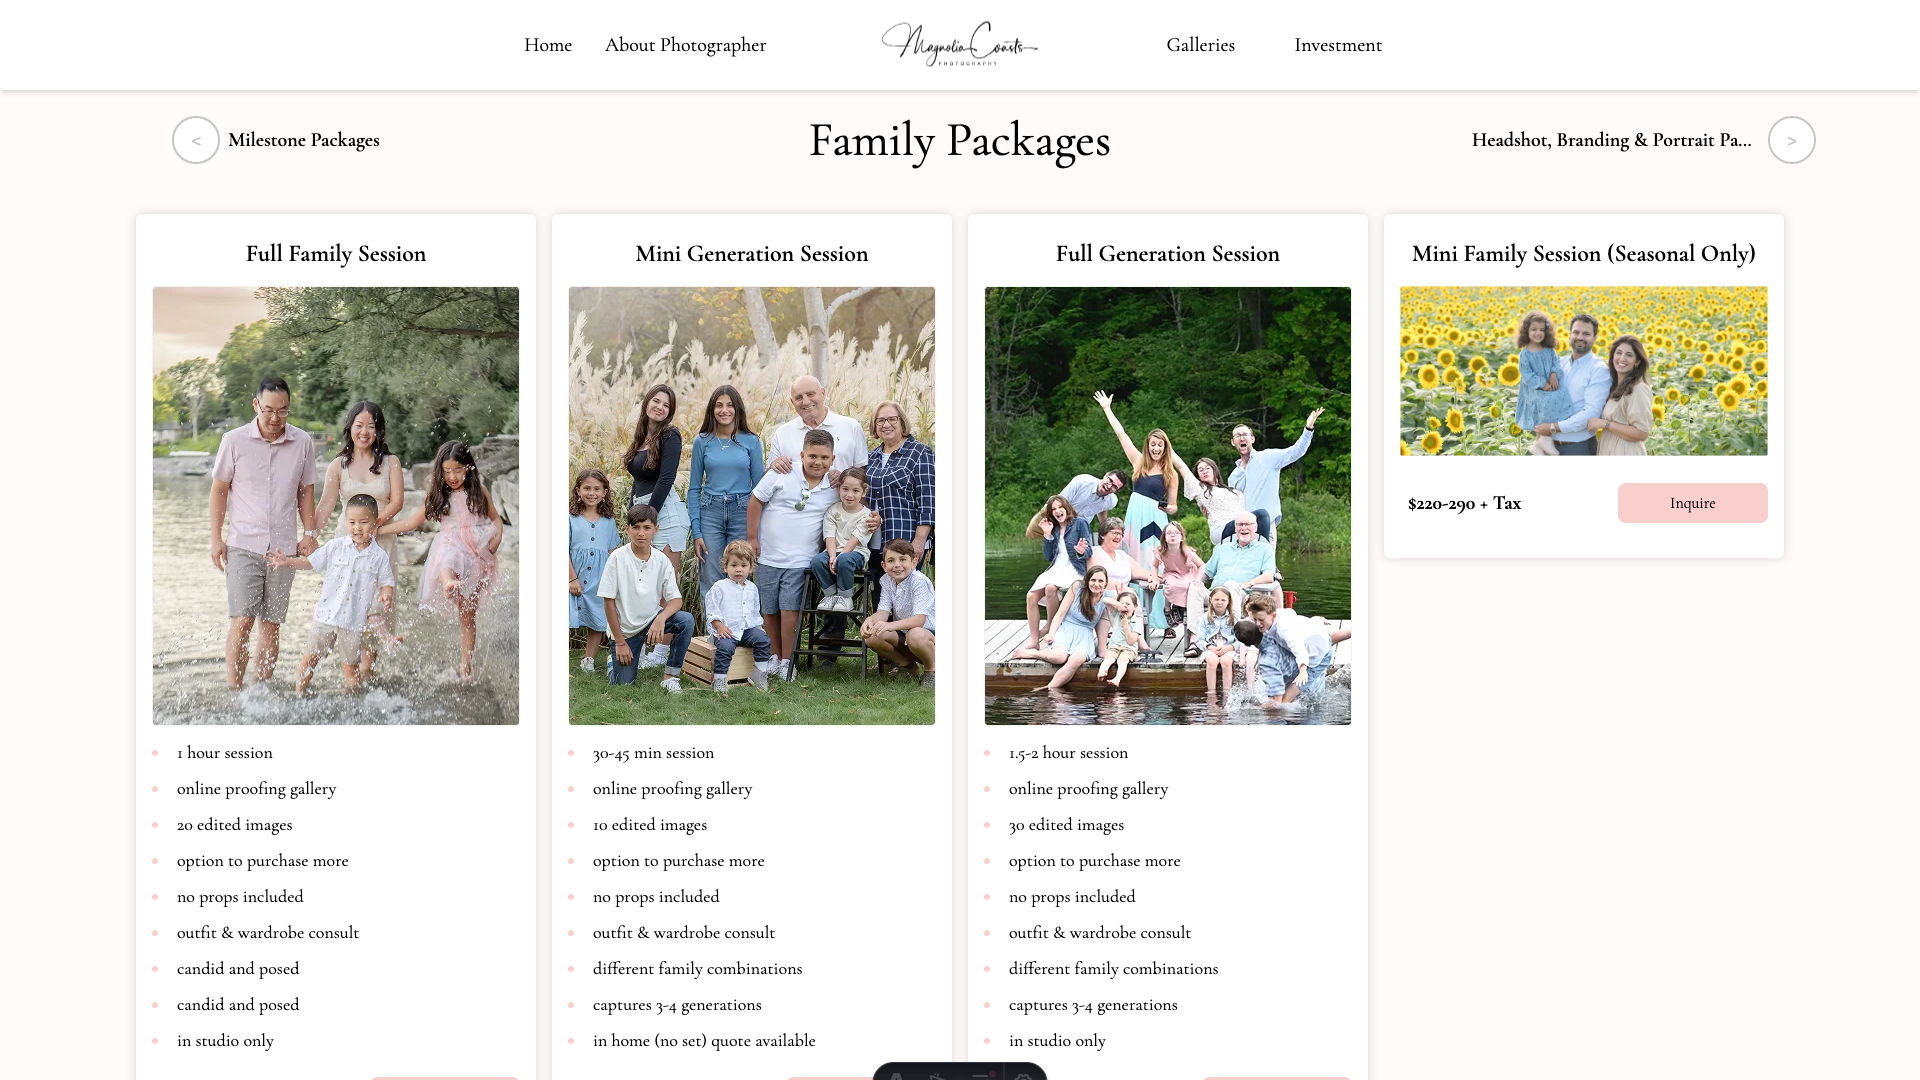
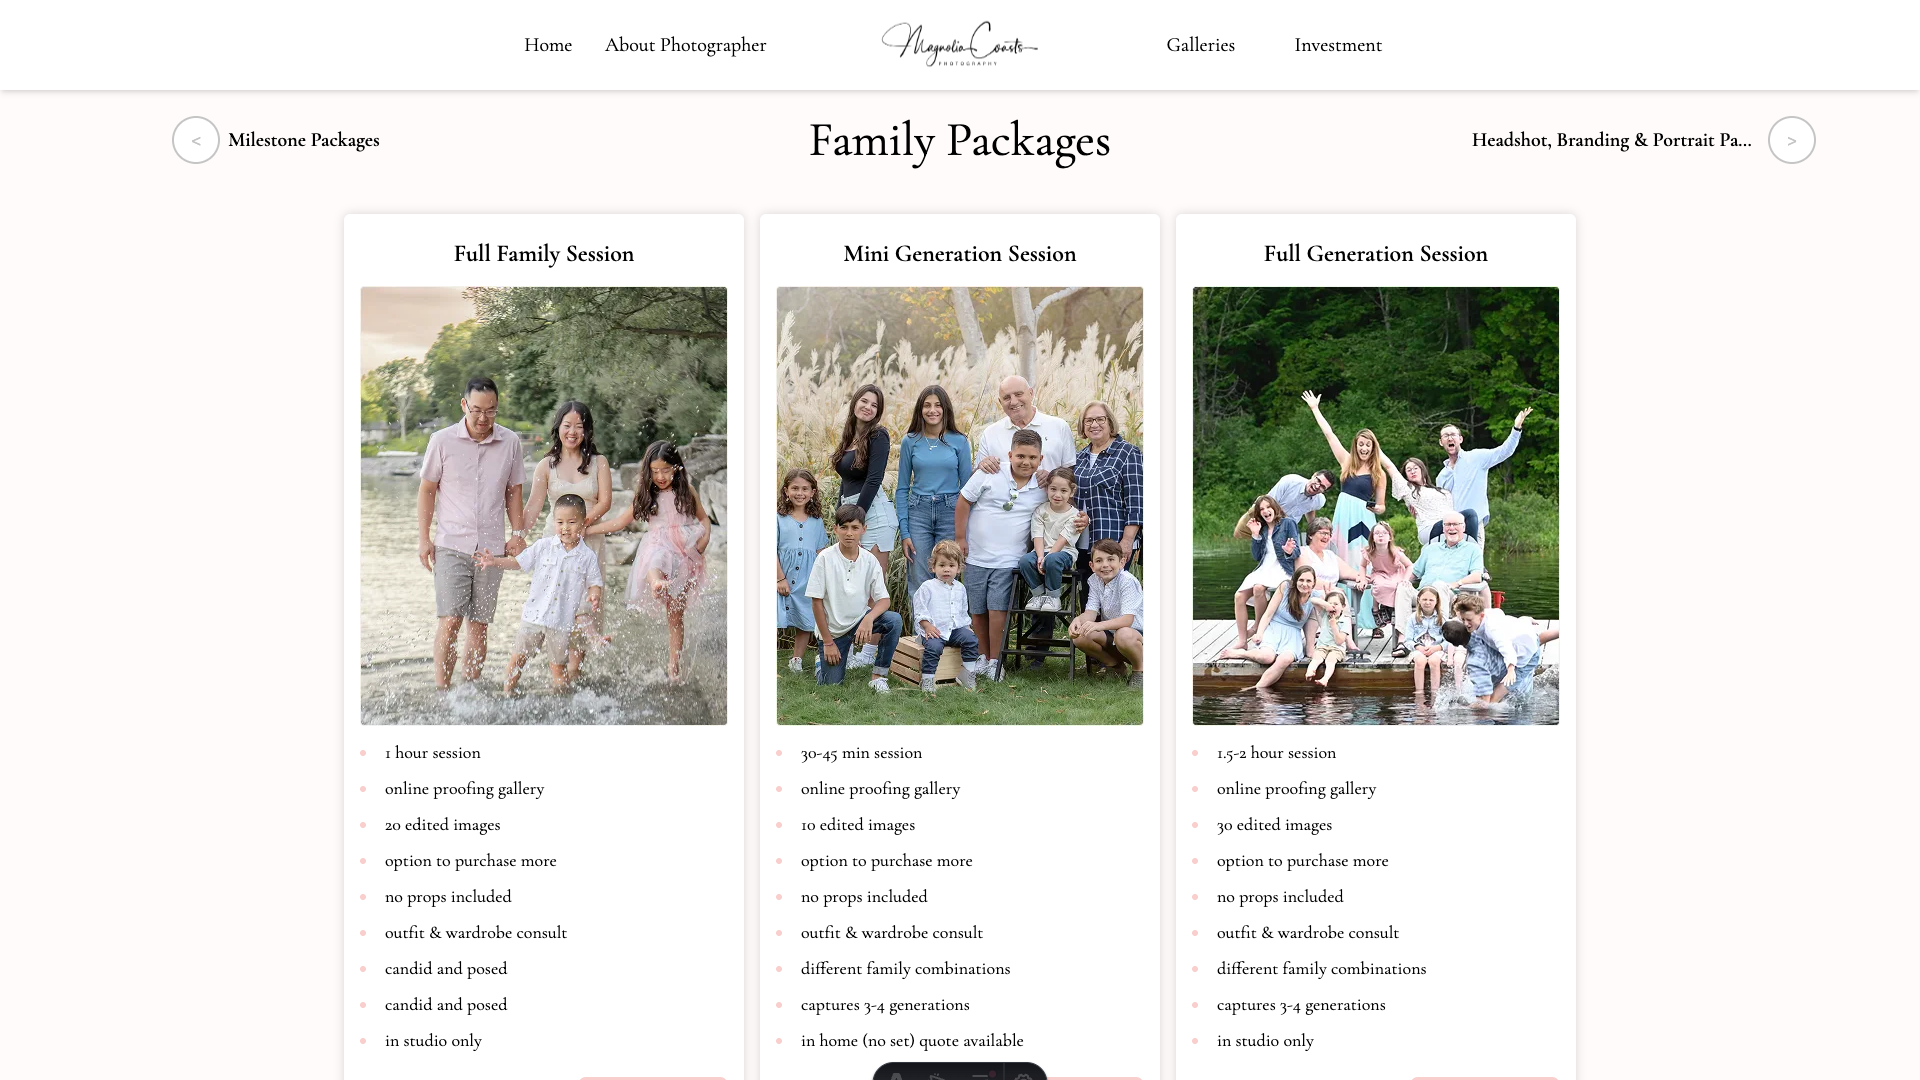
make a special card layout for mini family package

diff --git a/src/data/familyPackages/miniFamily.md b/src/data/familyPackages/miniFamily.md
@@ -2,7 +2,7 @@
 title: Mini Family Session (Seasonal Only)
 sortOrder: 4
 priceRange: 220-290
-cardStyle: "h-fit"
+cardStyle: "xl:shrink-0 xl:mx-[50vw] xl:max-w-[898px] xl:w-full h-fit"
 details:
   - ""
 ---
